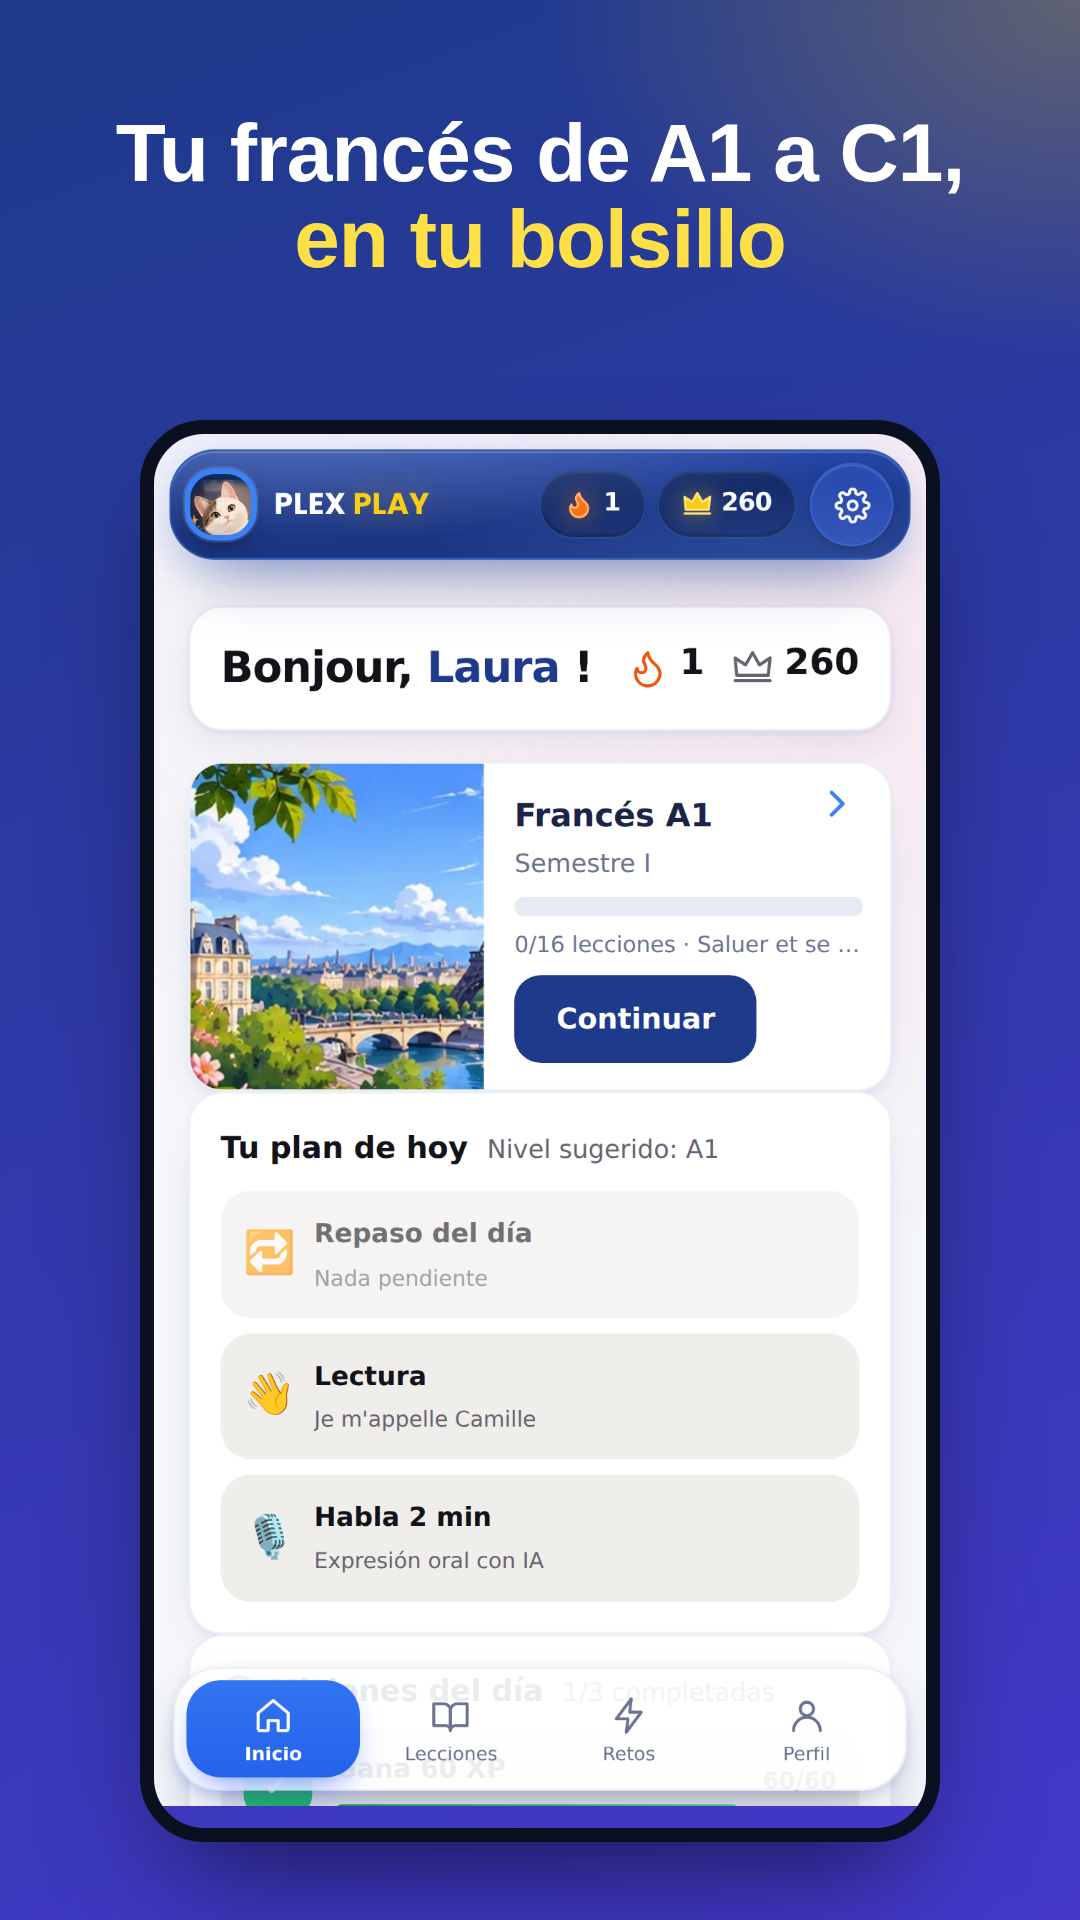
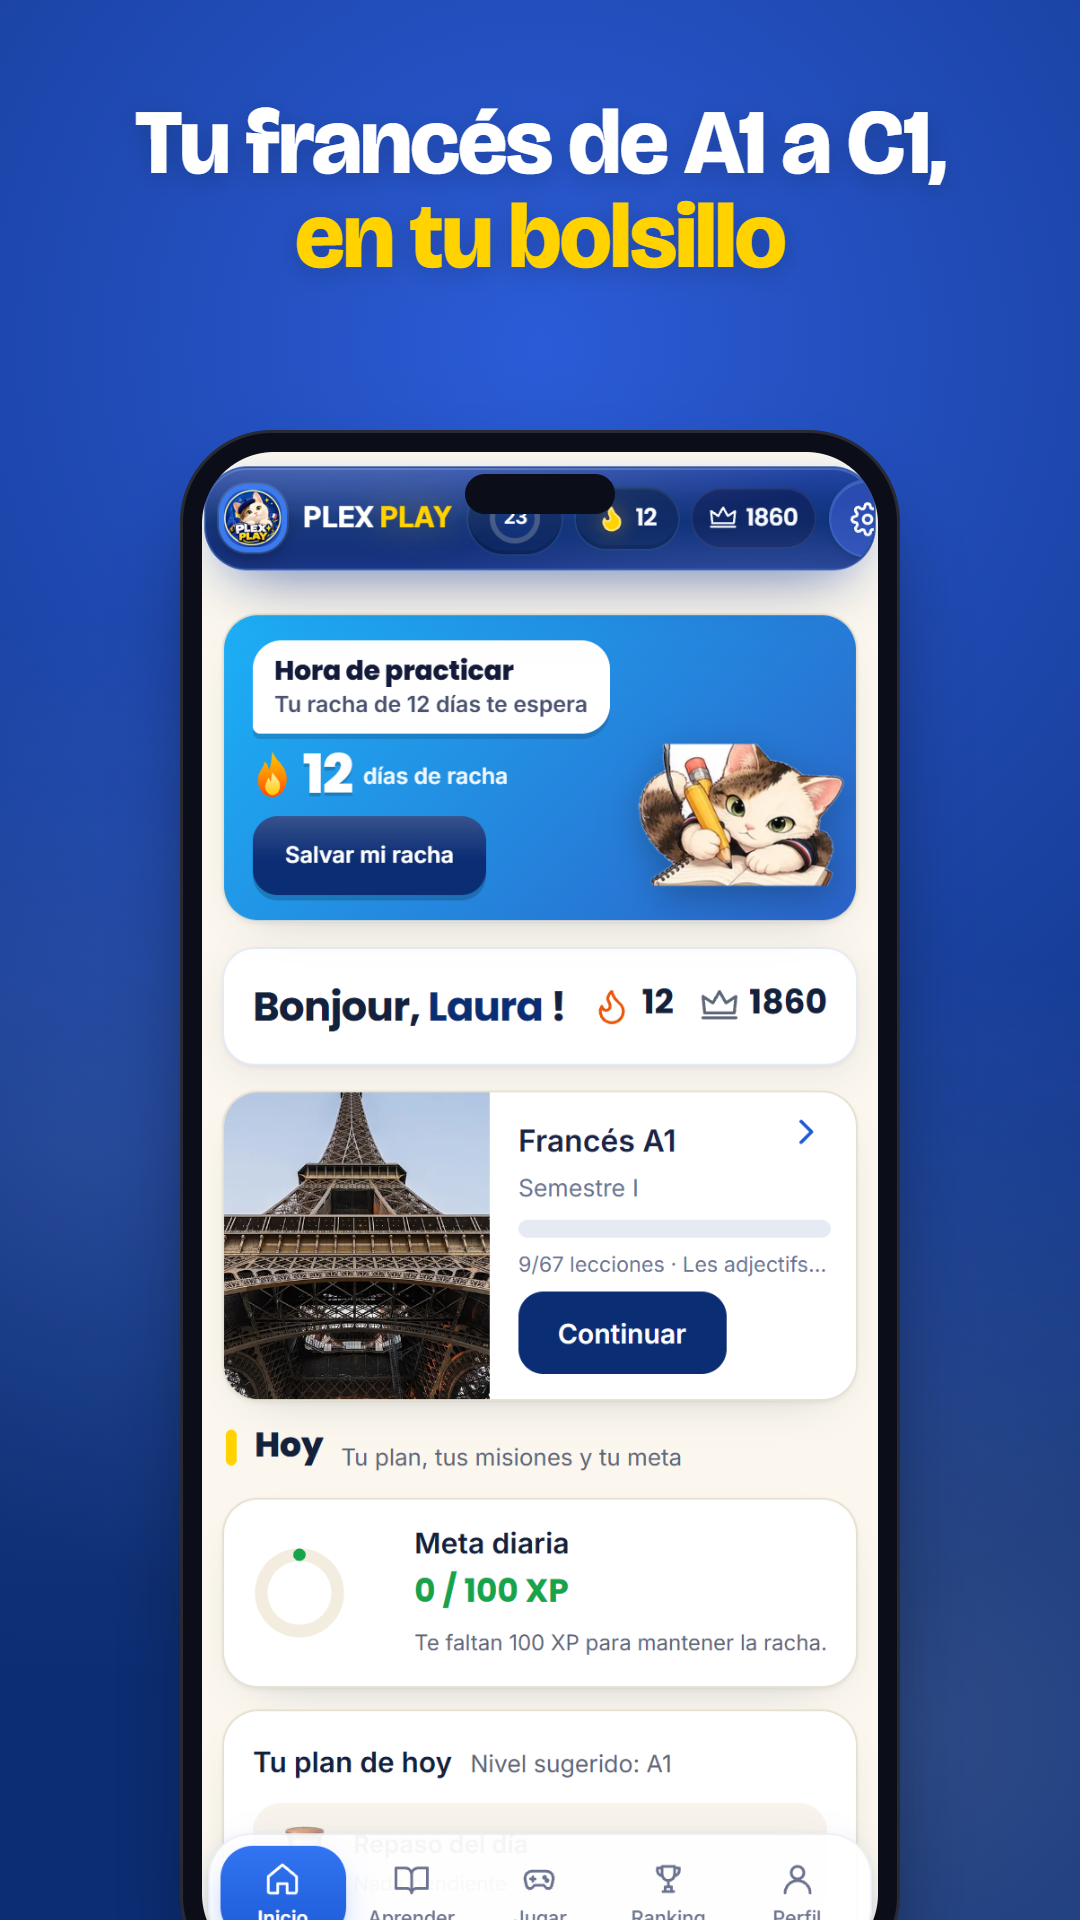
La app carga plexplay.app (Cloudflare Pages) y sigue aceptando la dirección vieja de GitHub Pages; capturas y gráfico nuevos para Google Play

diff --git a/app/src/main/assets/offline.html b/app/src/main/assets/offline.html
@@ -3,4 +3,4 @@
 h1{font-size:26px;margin:0 0 8px}h1 em{font-style:normal;color:#E9B949}p{opacity:.85;line-height:1.5;max-width:30ch;margin:0 auto 22px}
 a{display:inline-block;background:#D7263D;color:#fff;text-decoration:none;font-weight:700;padding:14px 26px;border-radius:12px}</style></head>
 <body><div><h1>PLEX <em>PLAY</em></h1><p>No hay conexión. La primera vez necesitas internet; después la app funciona también sin conexión.</p>
-<a href="https://jhonsaavedrau-dev.github.io/plexplay/app/?src=android">Reintentar</a></div></body></html>
+<a href="https://plexplay.app/app/?src=android">Reintentar</a></div></body></html>

diff --git a/scripts/tienda.py b/scripts/tienda.py
@@ -1,0 +1,63 @@
+"""Capturas de la ficha de Google Play (1080x1920): titular arriba y la pantalla de la app en un teléfono.
+
+1. Pantallas crudas: node herramientas/probar-arcade.mjs --prueba pruebas/tienda.mjs --tema light --ancho 390 --alto 844 --out <carpeta>
+2. python plexplay-android/scripts/tienda.py <carpeta>   → escribe las páginas y la lista en <carpeta>/montar
+3. node herramientas/probar-arcade.mjs --url about:blank --prueba pruebas/tienda-montar.mjs --ancho 540 --alto 960 --out plexplay-android/store/graficos
+   (540x960 con escala 2 = 1080x1920; Chrome sin ventana se colgaba al capturar, por eso se usa el harness)
+"""
+import os
+import sys
+from pathlib import Path
+
+RAIZ = Path(__file__).resolve().parents[1]
+SALIDA = RAIZ / "store" / "graficos"
+FUENTES = RAIZ.parent / "web" / "app" / "fonts"
+CHROME = Path(os.environ["LOCALAPPDATA"]) / "ms-playwright" / "chromium-1234" / "chrome-win64" / "chrome.exe"
+
+# archivo crudo, nombre final, línea 1, línea 2 (resaltada), color de fondo claro, oscuro
+PIEZAS = [
+    ("t-1-inicio", "captura-1-inicio", "Tu francés de A1 a C1,", "en tu bolsillo", "#2B5BD7", "#0B2D74"),
+    ("t-2-aprender", "captura-2-lecciones", "Tu curso completo,", "unidad por unidad", "#1CA0E8", "#0B4F9C"),
+    ("t-6-runner", "captura-3-juegos", "Aprende corriendo", "con Manzana", "#7A5CF0", "#3B1F9E"),
+    ("t-7-racha", "captura-4-racha", "Practica un poco", "cada día", "#FF8A1F", "#C2410C"),
+    ("t-3-jugar", "captura-5-arcade", "Minijuegos para", "cada lección", "#E0457B", "#8E1850"),
+    ("t-8-leccion", "captura-6-leccion", "Explicaciones claras,", "con audio", "#12A58A", "#0B5E50"),
+    ("t-4-ranking", "captura-7-ranking", "Compite con", "tus compañeros", "#F2A900", "#A15C00"),
+    ("t-5-perfil", "captura-8-perfil", "Tu gato, tu nivel,", "tu progreso", "#5B6BD6", "#1F2A7A"),
+]
+
+HTML = """<!doctype html><html><head><meta charset="utf-8"><meta name="viewport" content="width=device-width,initial-scale=1"><style>
+@font-face{{font-family:B;src:url('{f}/bricolage-latin.woff2') format('woff2');font-weight:200 800}}
+@font-face{{font-family:B;src:url('{f}/bricolage-latin-ext.woff2') format('woff2');font-weight:200 800;unicode-range:U+0100-024F}}
+html,body{{margin:0;width:540px;height:960px;overflow:hidden}}
+.lienzo{{width:1080px;height:1920px;transform:scale(.5);transform-origin:0 0;position:relative;overflow:hidden}}
+body{{margin:0}} .lienzo{{background:radial-gradient(circle at 50% 18%,{c1} 0,{c2} 78%);font-family:B,system-ui,sans-serif;position:relative}}
+.brillo{{position:absolute;inset:0;background:radial-gradient(circle at 85% 90%,rgba(255,255,255,.14) 0,transparent 40%),radial-gradient(circle at 8% 60%,rgba(255,255,255,.08) 0,transparent 35%)}}
+h1{{position:absolute;left:70px;right:70px;top:96px;margin:0;text-align:center;color:#fff;font-weight:800;font-size:92px;line-height:1.02;letter-spacing:-2px;text-shadow:0 6px 24px rgba(0,0,0,.18)}}
+h1 span{{display:block;color:#FFD200}}
+.tel{{position:absolute;left:50%;top:430px;width:720px;height:1558px;margin-left:-360px;border-radius:92px;background:#0B0D18;padding:22px;box-sizing:border-box;
+  box-shadow:0 50px 90px -30px rgba(0,0,0,.6),inset 0 0 0 3px rgba(255,255,255,.12)}}
+.tel img{{display:block;width:100%;height:100%;object-fit:cover;object-position:top;border-radius:72px}}
+.isla{{position:absolute;left:50%;top:44px;width:150px;height:40px;margin-left:-75px;border-radius:30px;background:#0B0D18;z-index:2}}
+</style></head><body><div class="lienzo"><div class="brillo"></div><h1>{l1}<span>{l2}</span></h1><div class="tel"><div class="isla"></div><img src="{img}"></div></div></body></html>"""
+
+
+def main(cruda):
+    cruda = Path(cruda)
+    dest = cruda / "montar"
+    dest.mkdir(parents=True, exist_ok=True)
+    lista = []
+    for src, dst, l1, l2, c1, c2 in PIEZAS:
+        img = cruda / (src + ".png")
+        if not img.exists():
+            print("falta", img); continue
+        html = dest / (dst + ".html")
+        html.write_text(HTML.format(f=FUENTES.as_uri(), c1=c1, c2=c2, l1=l1, l2=l2, img=img.as_uri()), encoding="utf-8")
+        lista.append({"url": html.as_uri(), "nombre": dst})
+    import json
+    (dest / "lista.json").write_text(json.dumps(lista), encoding="utf-8")
+    print(len(lista), "páginas en", dest)
+
+
+if __name__ == "__main__":
+    main(sys.argv[1])

diff --git a/app/src/main/java/co/plexplay/app/MainActivity.java b/app/src/main/java/co/plexplay/app/MainActivity.java
@@ -41,8 +41,10 @@ import java.util.Locale;
  *  3. si falla o no existe: la ventana de voz de Google (RecognizerIntent), que funciona en casi todos los teléfonos.
  */
 public class MainActivity extends Activity {
-    static final String HOST = "jhonsaavedrau-dev.github.io";
-    static final String HOME = "https://" + HOST + "/plexplay/app/?src=android";
+    /* la app vive en plexplay.app (Cloudflare Pages); la dirección vieja de GitHub Pages sigue sirviendo lo mismo */
+    static final String HOST = "plexplay.app";
+    static final String HOST_VIEJO = "jhonsaavedrau-dev.github.io";
+    static final String HOME = "https://" + HOST + "/app/?src=android";
     static final int REQ_MIC = 11, REQ_NOTIF = 12, REQ_SPEECH = 13, REQ_MIC_ONLY = 14;
     /** abierta desde «Practicar» (notificación o widget): al cargar, la página abre la siguiente lección */
     static final String EXTRA_PRACTICAR = "practicar";
@@ -91,7 +93,7 @@ public class MainActivity extends Activity {
                 Uri u = r.getUrl();
                 /* entrar.html (acceso con Google desde la página de PLEX PLAY) se abre en el navegador: Google no deja entrar en un WebView */
                 boolean entrar = u.getPath() != null && u.getPath().endsWith("/entrar.html");
-                if ("https".equals(u.getScheme()) && HOST.equals(u.getHost()) && !entrar) return false;
+                if ("https".equals(u.getScheme()) && (HOST.equals(u.getHost()) || HOST_VIEJO.equals(u.getHost())) && !entrar) return false;
                 try { startActivity(new Intent(Intent.ACTION_VIEW, u)); } catch (Exception e) { /* sin app para abrirlo */ }
                 return true;
             }
@@ -306,7 +308,7 @@ public class MainActivity extends Activity {
     void abrirRetorno(Intent i) {
         Uri d = i.getData();
         String q = d.getEncodedQuery(), f = d.getEncodedFragment();
-        web.loadUrl("https://" + HOST + "/plexplay/app/index.html" + (q != null ? "?" + q : "") + (f != null ? "#" + f : ""));
+        web.loadUrl("https://" + HOST + "/app/index.html" + (q != null ? "?" + q : "") + (f != null ? "#" + f : ""));
     }
     @Override protected void onNewIntent(Intent intent) {
         super.onNewIntent(intent);
